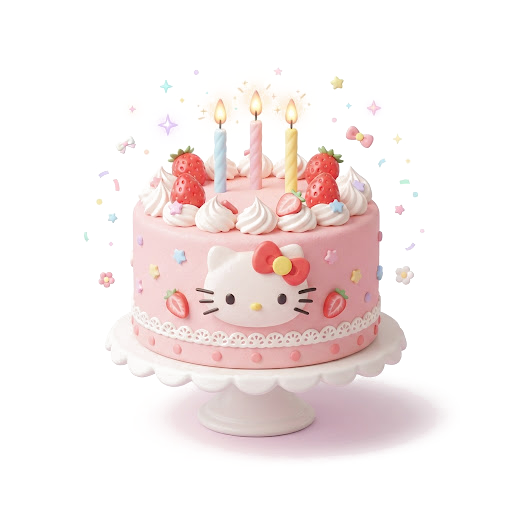
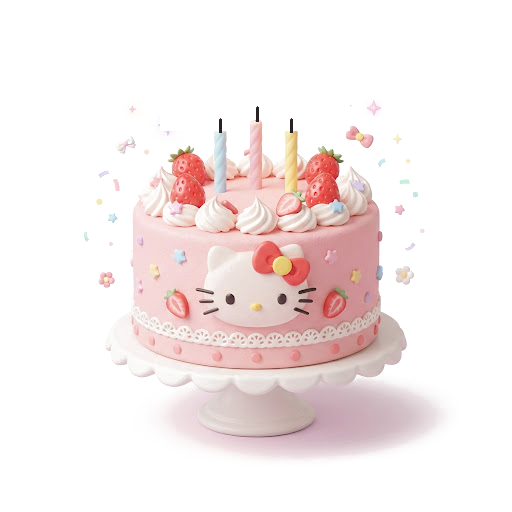
Fix unlit candles: clean painted flames from cake.png, add ember fade and smoke on wicks

diff --git a/style.css b/style.css
@@ -588,9 +588,9 @@ p.screen-subtitle {
 }
 
 /* Координаты свечей (выверены под торт из Stitch) */
-#candle-1 { left: 41.5%; top: 22%; }
-#candle-2 { left: 50%; top: 20.5%; }
-#candle-3 { left: 58.5%; top: 22.5%; }
+#candle-1 { left: 43.0%; top: 20.0%; }
+#candle-2 { left: 50.2%; top: 17.5%; }
+#candle-3 { left: 56.8%; top: 20.0%; }
 
 .flame-flicker {
   position: relative;
@@ -621,24 +621,52 @@ p.screen-subtitle {
   pointer-events: none;
 }
 
+/* Остывающий тлеющий уголёк на потушенном фитиле */
+.flame-ember {
+  position: absolute;
+  bottom: 12px;
+  left: 50%;
+  width: 5px;
+  height: 5px;
+  border-radius: 50%;
+  background: #ff4500;
+  box-shadow: 0 0 6px #ff4500, 0 0 10px #ff0000;
+  opacity: 0;
+  transform: translateX(-50%);
+  pointer-events: none;
+  z-index: 10;
+}
+
+.flame-ember.ember-active {
+  animation: emberCooldown 2.4s cubic-bezier(0.2, 0.8, 0.4, 1) forwards;
+}
+
+@keyframes emberCooldown {
+  0% { opacity: 1; transform: translateX(-50%) scale(1.5); background: #ff7700; box-shadow: 0 0 8px #ff7700, 0 0 12px #ff2200; }
+  25% { opacity: 0.95; transform: translateX(-50%) scale(1.2); background: #ff3300; box-shadow: 0 0 6px #ff3300; }
+  60% { opacity: 0.65; transform: translateX(-50%) scale(0.9); background: #991100; box-shadow: 0 0 3px #550000; }
+  100% { opacity: 0; transform: translateX(-50%) scale(0.5); background: #222222; box-shadow: none; }
+}
+
 .flame-smoke-puff {
   position: absolute;
-  top: -24px;
+  top: -16px;
   left: 50%;
   transform: translateX(-50%);
   font-size: 1.6rem;
   opacity: 0;
   pointer-events: none;
+  filter: drop-shadow(0 2px 4px rgba(0,0,0,0.12));
 }
 
 .flame-smoke-puff.puff-active {
-  animation: smokeRisePuff 1.4s ease-out forwards;
+  animation: smokeRisePuff 1.5s ease-out forwards;
 }
 
 @keyframes smokeRisePuff {
   0% { opacity: 0.95; transform: translate(-50%, 0) scale(0.6); }
-  50% { opacity: 0.6; transform: translate(-50%, -24px) scale(1.2) rotate(8deg); }
-  100% { opacity: 0; transform: translate(-50%, -46px) scale(1.8) rotate(-12deg); }
+  50% { opacity: 0.65; transform: translate(-50%, -24px) scale(1.2) rotate(8deg); }
+  100% { opacity: 0; transform: translate(-50%, -48px) scale(1.8) rotate(-14deg); }
 }
 
 /* Анимированный шлейф ветра */

diff --git a/index.html b/index.html
@@ -135,16 +135,19 @@
           <!-- Свеча 1 (слева) -->
           <div class="candle-item-3" id="candle-1" data-candle="1" title="Нажми или смахни">
             <div class="flame-smoke-puff" id="smoke-1">💨</div>
+            <div class="flame-ember" id="ember-1"></div>
             <div class="flame-flicker flame-1" id="flame-1"></div>
           </div>
           <!-- Свеча 2 (в центре) -->
           <div class="candle-item-3" id="candle-2" data-candle="2" title="Нажми или смахни">
             <div class="flame-smoke-puff" id="smoke-2">💨</div>
+            <div class="flame-ember" id="ember-2"></div>
             <div class="flame-flicker flame-2" id="flame-2"></div>
           </div>
           <!-- Свеча 3 (справа) -->
           <div class="candle-item-3" id="candle-3" data-candle="3" title="Нажми или смахни">
             <div class="flame-smoke-puff" id="smoke-3">💨</div>
+            <div class="flame-ember" id="ember-3"></div>
             <div class="flame-flicker flame-3" id="flame-3"></div>
           </div>
         </div>

diff --git a/app.js b/app.js
@@ -277,6 +277,11 @@ document.addEventListener('DOMContentLoaded', () => {
     document.getElementById('smoke-2'),
     document.getElementById('smoke-3')
   ];
+  const emberEls = [
+    document.getElementById('ember-1'),
+    document.getElementById('ember-2'),
+    document.getElementById('ember-3')
+  ];
   const windTrail = document.getElementById('wind-swipe-trail');
   const candlesBadge = document.getElementById('candles-count-badge');
   const swipeTrack = document.getElementById('swipe-wind-track');
@@ -313,6 +318,13 @@ document.addEventListener('DOMContentLoaded', () => {
     // Гасим пламя
     if (flameEls[index]) {
       flameEls[index].classList.add('extinguished');
+    }
+
+    // Запускаем остывающий уголёк на фитильке
+    if (emberEls[index]) {
+      emberEls[index].classList.remove('ember-active');
+      void emberEls[index].offsetWidth;
+      emberEls[index].classList.add('ember-active');
     }
 
     // Запускаем дымок
